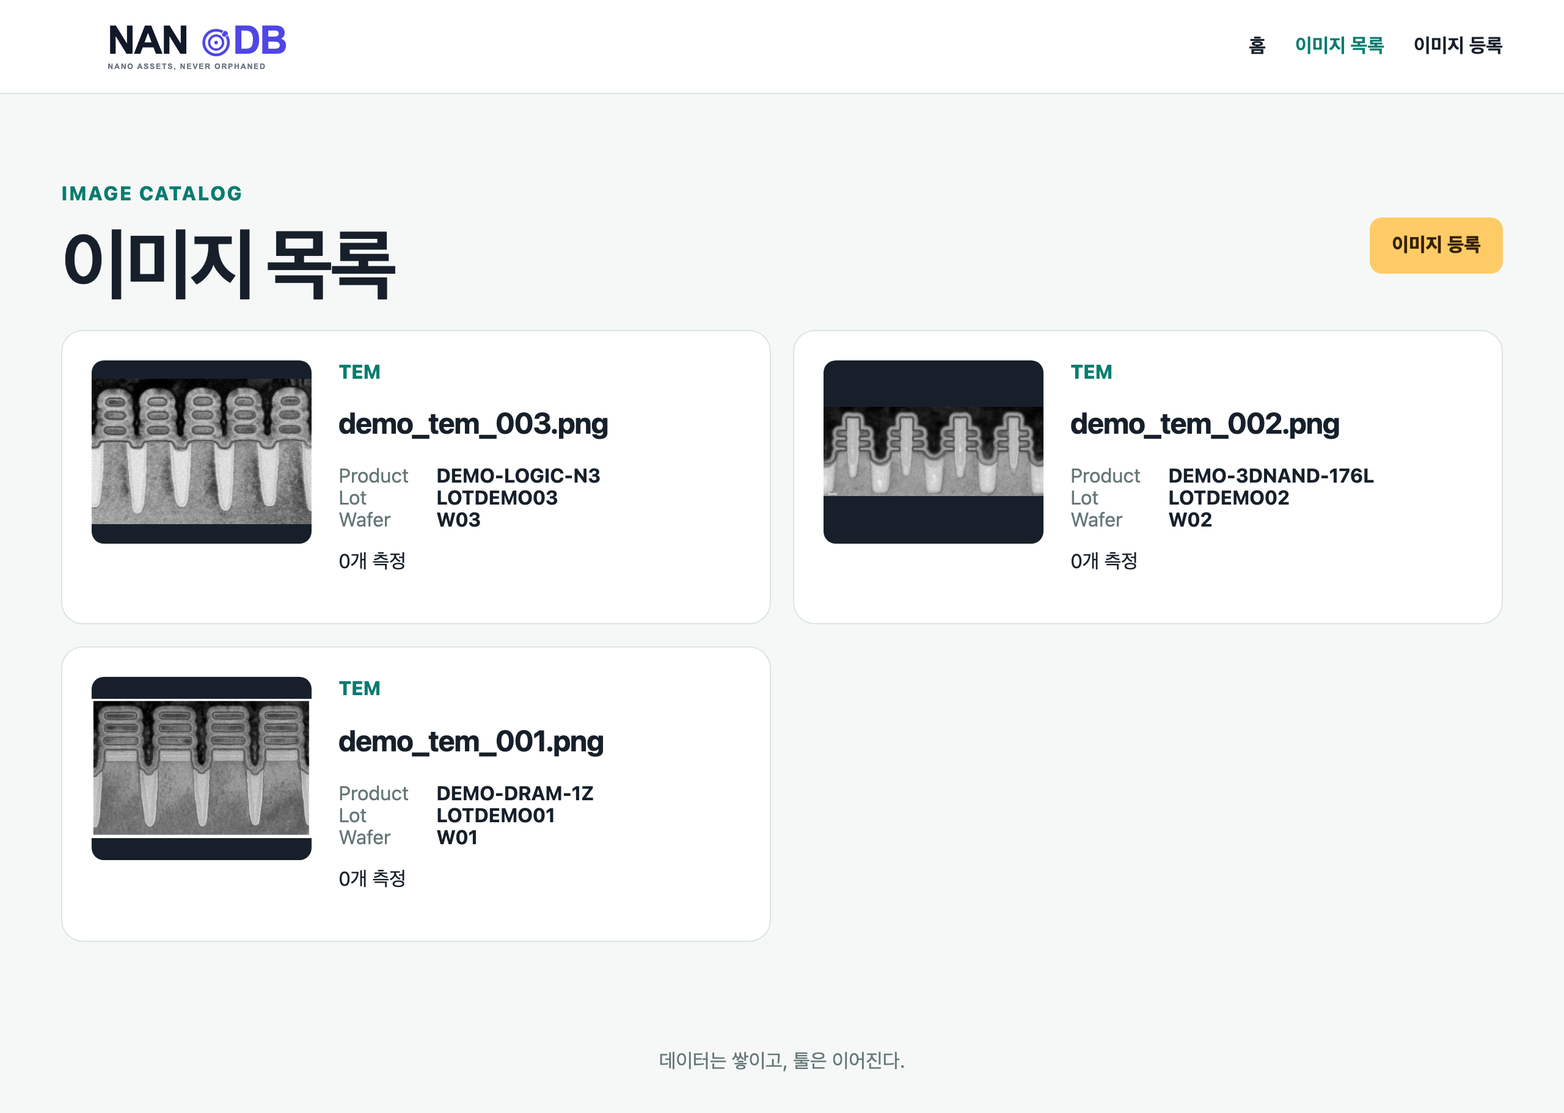
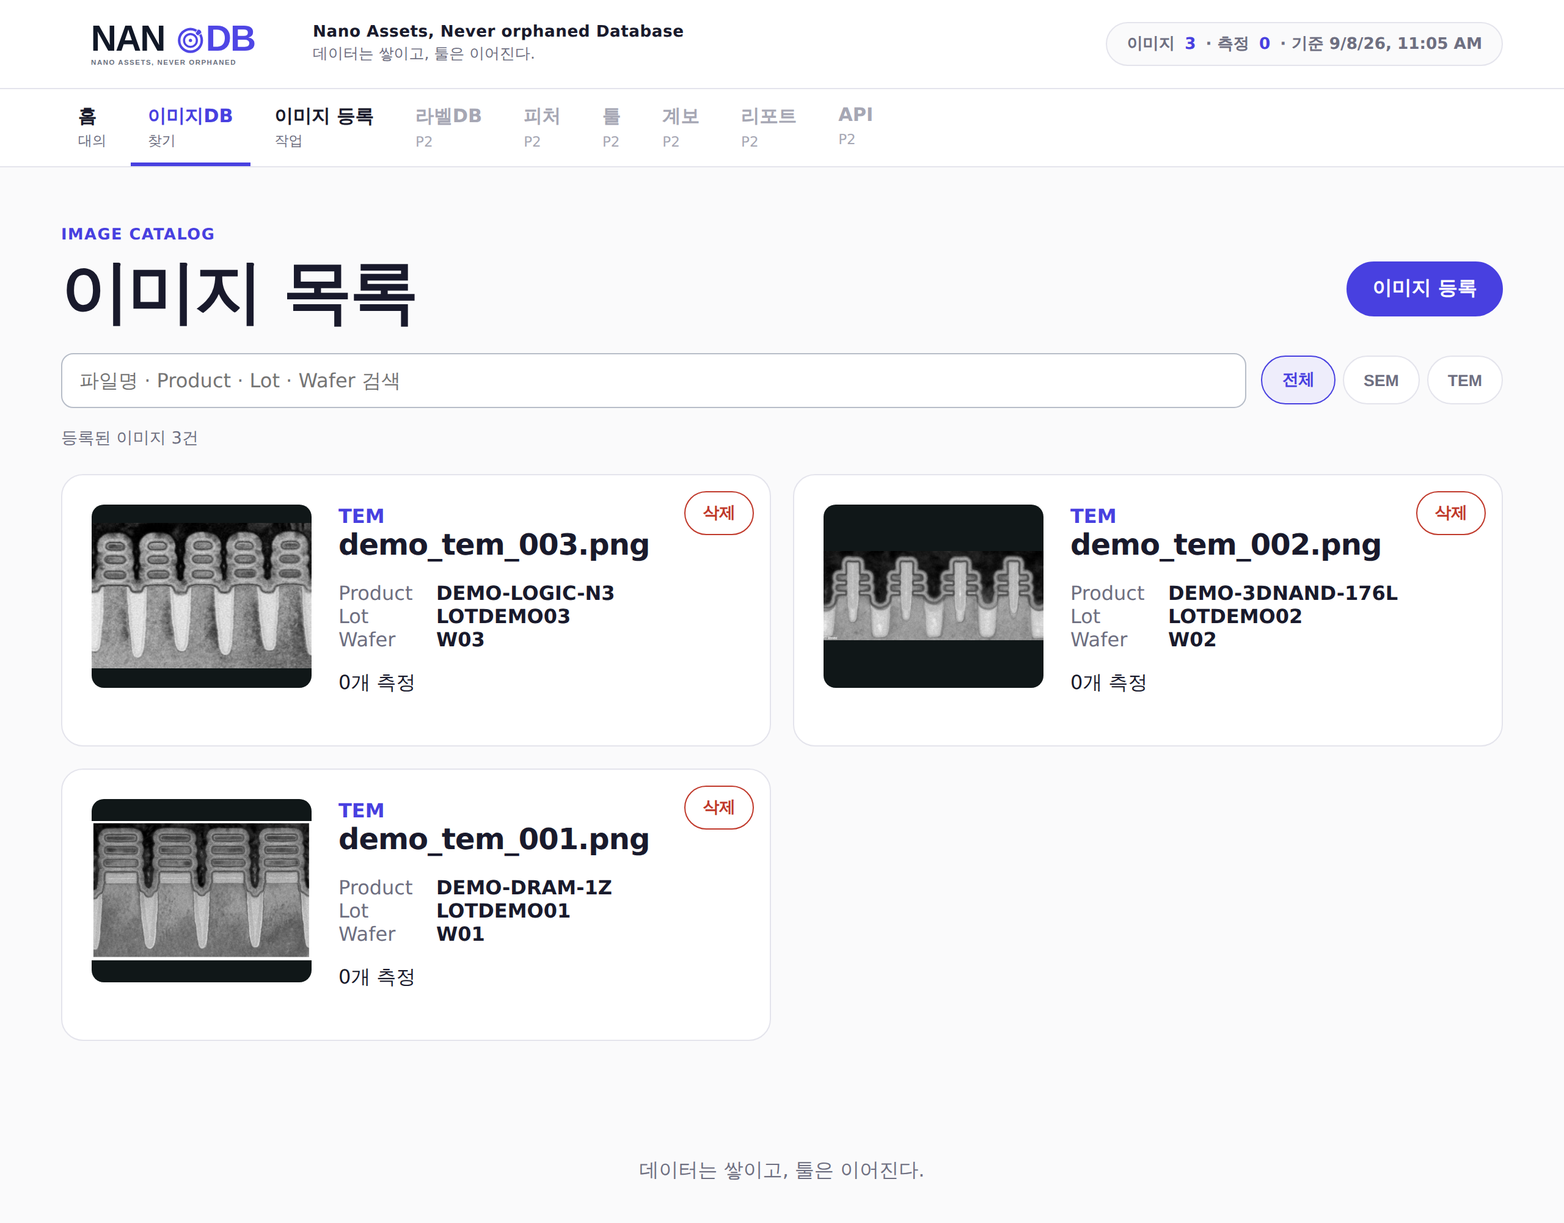
fix: make a fresh checkout actually installable, and refresh stale evidence
Ran the three paths that had never been executed — the make demo flow, the
container definitions and the evidence site build — and removed what they
exposed.

The serious one: .python-version pinned 3.12.12, which uv cannot install on
Linux (its newest managed build is 3.12.11), so `uv sync --frozen` failed on any
machine without that exact system interpreter. `make install` was the first
thing a new contributor would hit, which makes the "run with one or two
commands" requirement untrue. pyproject.toml already allows any 3.12, so the pin
now says 3.12; the Dockerfile keeps python:3.12.12-slim-bookworm, a tag that
does exist. The requirement now states that an interpreter pin has to be
installable.

HOM-034a — the home usage-flow CTA pair — was written into the requirements
during the last amendment and never built. Regenerating the screenshots is what
exposed it. It is implemented here, with a test fixing HOM-005's contract that
those two links are the only ones in the home body.

The evidence screenshots were four commits stale, showing a UI that no longer
exists to anyone judging this. They are recaptured, and because the site serves
its own copies from docs/public, the capture script now writes both so they
cannot drift apart again. The script also takes CHROMIUM_PATH so it can run
where a browser exists but Playwright's download does not. The skip link went
back to position: absolute — as fixed it was painted into full-page captures.
[…]

diff --git a/src/frontend/src/pages/HomePage.test.tsx b/src/frontend/src/pages/HomePage.test.tsx
@@ -105,6 +105,23 @@ describe("HomePage", () => {
     expect(document.querySelector('iframe[title="NANoDB 소개 영상"]')).not.toBeNull();
   });
 
+  it("puts the only in-body links at the end of the usage flow", () => {
+    stubApi({
+      image_count: 0,
+      measurement_count: 0,
+      calculated_at: "2026-09-08T04:00:00Z",
+      parameters: [],
+    });
+
+    renderWithRouter(<HomePage />);
+
+    expect(screen.getByTestId("home-register-image")).toHaveAttribute("href", "/images/new");
+    expect(screen.getByTestId("home-browse-images")).toHaveAttribute("href", "/images");
+    // HOM-005: those two are the whole set. Nothing else in the body navigates.
+    const links = [...document.querySelectorAll("main a[href^='/']")];
+    expect(links).toHaveLength(2);
+  });
+
   it("names the screen in the document title", () => {
     stubApi({
       image_count: 0,

diff --git a/src/frontend/src/pages/HomePage.tsx b/src/frontend/src/pages/HomePage.tsx
@@ -1,4 +1,5 @@
 import { useCallback, useEffect, useState } from "react";
+import { Link } from "react-router-dom";
 
 import logo from "../../../../assets/logo/nanodb_logo_horizontal.png";
 import { api } from "../api/client";
@@ -555,6 +556,16 @@ export function HomePage() {
             </li>
           ))}
         </ol>
+        {/* The only in-body links on the home page (HOM-005, HOM-034a): a
+            reader who just went through the four steps can start here. */}
+        <div className="flow-cta">
+          <Link className="button primary" to="/images/new" data-testid="home-register-image">
+            이미지 등록
+          </Link>
+          <Link className="button" to="/images" data-testid="home-browse-images">
+            이미지 둘러보기
+          </Link>
+        </div>
       </section>
 
       <p className="policy">

diff --git a/src/frontend/src/styles.css b/src/frontend/src/styles.css
@@ -223,6 +223,8 @@ h2 { letter-spacing: -0.02em; font-size: 1.5rem; margin: 0 0 6px; }
 .step-card h3 { margin: 12px 0 6px; font-size: 1rem; }
 .step-card p { margin: 0; line-height: 1.5; color: var(--ink); }
 
+.flow-cta { display: flex; flex-wrap: wrap; gap: 12px; margin-top: 20px; }
+
 .policy { text-align: center; color: var(--ink-muted); font-size: 0.85rem; }
 
 /* ---------- Summary panel (legacy, used where needed) ---------- */
@@ -271,7 +273,7 @@ footer { padding: 32px; text-align: center; color: var(--ink-muted); }
 
 /* Skip link: off-screen until focused (UIX-005). */
 .skip-link {
-  position: fixed;
+  position: absolute;
   left: 12px;
   top: -60px;
   z-index: 30;

diff --git a/aidlc-docs/aidlc-state.md b/aidlc-docs/aidlc-state.md
@@ -4,7 +4,7 @@
 
 - **Project Type**: Greenfield
 - **Start Date**: 2026-09-07T11:50:01Z
-- **Current Stage**: CONSTRUCTION - the whole 2026-09-08 UI/UX amendment is implemented except UIX-003 and UIX-009, which stay declared P2. Every gate is green including browser e2e. The 2026-09-08 UI/UX requirements amendment was approved on the same day. Prior state: CONSTRUCTION complete for both units (NANoDB Core US-01~US-07 + Evidence Site US-08); Evidence Site Code Generation approved 2026-09-08. Remaining deferred: Core PostgreSQL integration test, browser e2e, and container stack in a Docker/PostgreSQL environment; actual GitHub Pages deploy after admin Pages setup + main push. Operations phase is a placeholder.
+- **Current Stage**: CONSTRUCTION - the 2026-09-08 UI/UX amendment is implemented except UIX-003 and UIX-009, and every runnable path (make demo, quality gates, browser e2e, evidence site build and preview) has been executed end to end. Only the container stack and the actual Pages deploy remain unverified, both blocked by this environment rather than by the project. The 2026-09-08 UI/UX requirements amendment was approved on the same day. Prior state: CONSTRUCTION complete for both units (NANoDB Core US-01~US-07 + Evidence Site US-08); Evidence Site Code Generation approved 2026-09-08. Remaining deferred: Core PostgreSQL integration test, browser e2e, and container stack in a Docker/PostgreSQL environment; actual GitHub Pages deploy after admin Pages setup + main push. Operations phase is a placeholder.
 
 ## Workspace State
 
@@ -82,6 +82,9 @@
 - [x] HOM-040 (intro video caption, reduced-motion play button, offline path in README)
 - [x] P2: UIX-006 (error boundary + catch-all route), UIX-004 (document titles), UIX-005 (skip link), UIX-007 (retry), IMG-009~010 (required marks and per-field errors) — see [p2-polish-plan.md](construction/plans/p2-polish-plan.md)
 - [ ] UIX-003 (numeric coordinate entry) and UIX-009 (loading placeholders) — deliberately left; not a demo gate
+- [x] Verify the demo path, container definitions and publishing path — see [demo-and-deploy-verification-plan.md](construction/plans/demo-and-deploy-verification-plan.md)
+- [ ] Run `make up` once where Docker image layers are reachable
+- [ ] Set the repository's Pages Source to GitHub Actions and push to main (DOC-012)
 
 ### Applied requirement changes (2026-09-08)
 
@@ -198,11 +201,22 @@ See [contest-alignment-plan.md](inception/requirements/contest-alignment-plan.md
 - Two defects were found while building this and fixed here: `/images/new` lit both the catalog and the register tab as the current location (a HOM-004 violation, now written into the requirement), and the skip link was positioned against the wrong ancestor.
 - Verified: ruff clean, mypy clean, pytest 104 passed, vitest 62 passed, vite build, Playwright e2e 7 passed, plus browser screenshots of the form errors, the not-found screen and the skip link.
 
+## Demo and Publishing Verification (2026-09-08)
+
+- Plan and results: [demo-and-deploy-verification-plan.md](construction/plans/demo-and-deploy-verification-plan.md).
+- Executed successfully: `uv sync --frozen`, `make preflight`, `make migrate`, `make seed-demo`, `make reset` (source samples untouched), `make lint`, `mypy`, `make test-backend` (104 passed, no skips), `make test-frontend` (63), `make build-frontend`, `make test-e2e` (7), `docs:build` with dead-link checking, and `docs:preview` serving under `/nanodb_mvp/`.
+- Seven defects removed. The serious one: `.python-version` pinned 3.12.12, which uv cannot install on Linux (its newest build is 3.12.11), so `uv sync --frozen` failed on any machine without that exact system interpreter — `make install` was the first thing a new contributor would hit. `pyproject.toml` already allows any 3.12, so the pin is now `3.12`.
+- The second notable one: HOM-034a, written into the requirements during this same amendment, had never been implemented. Regenerating the screenshots is what exposed it.
+- The evidence screenshots were four commits stale, and the site's own copies could drift from the repository's; the capture script now writes both.
+- Blocked by the environment and reported rather than worked around: the container stack (Docker Hub's layer host is denied by egress policy — compose config and all four image tags were validated instead) and the actual Pages deploy (needs the repository Pages Source set to GitHub Actions plus a push to main).
+
 ## Next Stage Assessment
 
 The UI/UX amendment is finished apart from UIX-003 (numeric coordinate entry, the remaining accessibility gap) and UIX-009 (loading placeholders). Both are recorded as unimplemented in the requirements and in the README's known limitations, and neither is a demo gate.
 
-What is genuinely unverified is no longer UI work: the repository's own `make demo` path, the container stack, and the GitHub Pages deploy have never been exercised in a fresh environment. The evidence site's published state and the external AI development demo (US-07, EVL-006~008) also remain separate from app completeness, as the requirements require them to be.
+Two things remain, and neither can be closed from here. Someone with Docker image access should run `make up` once to prove the container stack; an administrator must set the repository's Pages Source to GitHub Actions and push to main for DOC-012. Both are recorded as `미검증` in the requirements and on the evidence site.
+
+Separately, and by design, the external AI development demo (US-07, EVL-006~008) stays independent of app completeness: the prompts, generated code, run commands and pass/fail results still have to be produced and recorded by hand.
 
 ## Execution Plan Summary
 

diff --git a/aidlc-docs/construction/plans/demo-and-deploy-verification-plan.md b/aidlc-docs/construction/plans/demo-and-deploy-verification-plan.md
@@ -1,0 +1,90 @@
+# 데모·컨테이너·게시 경로 검증 — Verification Plan
+
+> 승인: 2026-09-08 "해줘. 발견된 모든 리스크 다 제거해줘"
+> 대상: `make demo` 경로, 컨테이너 스택, VitePress/GitHub Pages 게시 경로
+> 성격: 새 기능이 아니라 **한 번도 실행된 적 없던 경로를 실제로 돌려보고 드러난 결함을 제거**하는 작업
+
+## 실행 결과
+
+| 경로 | 결과 |
+| --- | --- |
+| `uv sync --frozen` (`make install`) | **결함 발견 → 수정** |
+| `make preflight` | 통과 |
+| `make migrate` | 통과 (3개 migration 적용) |
+| `make seed-demo` | 통과 (demo 이미지 3건 적재, 원천 샘플 불변) |
+| `make reset` | 통과 (행·업로드 정리, `data/samples/` 불변) |
+| `make lint` / `mypy` / `make test-backend` | 통과 (104 passed, skip 없음) |
+| `make test-frontend` / `make build-frontend` | 통과 (63 passed) |
+| `make test-e2e` | 통과 (7 passed, Chromium) |
+| `docker compose config` | 유효 |
+| 컨테이너 이미지 태그 존재 확인 | 4개 모두 존재 |
+| `docker compose up --build` | **실행 불가 — 환경 제약** |
+| `docs:build` (dead-link 검사 on) | 통과 |
+| `docs:preview` + `/nanodb_mvp/` base | 통과 (소개·근거·자산 200) |
+| Pages workflow 계약 검토 | DOC-006~011 충족 |
+| 실제 Pages 배포 | **실행 불가 — 저장소 관리자 설정 필요** |
+
+## 제거한 결함
+
+### 1. `.python-version`이 설치 불가능한 버전을 고정 (치명)
+
+`3.12.12`로 고정돼 있었으나 uv가 리눅스용으로 받을 수 있는 최신 빌드는 `3.12.11`이다.
+시스템에 3.12.12가 없는 새 머신에서는 `uv sync --frozen`이
+`No interpreter found for Python 3.12.12`로 실패한다. **`make install`부터 막히므로
+"명령 1~2개로 실행" 요구사항이 성립하지 않았다.**
+
+`pyproject.toml`의 `requires-python`은 이미 `==3.12.*`이므로, `.python-version`을 `3.12`로
+완화해 프로젝트가 실제로 요구하는 범위와 일치시켰다. Dockerfile의 `python:3.12.12-slim-bookworm`은
+그 태그가 실재하므로 그대로 둔다.
+
+### 2. 홈 사용 흐름 CTA가 요구사항에만 있고 구현되지 않음
+
+2026-09-08 개정에서 HOM-034a(`이렇게 쓰세요` 끝의 CTA 2개)를 신설했으나 구현하지 않았다.
+스크린샷을 다시 찍는 과정에서 드러났다. `이미지 등록`·`이미지 둘러보기` 링크를 구현하고
+"홈 본문의 이동 링크는 이 둘뿐"이라는 HOM-005 계약을 테스트로 고정했다.
+
+### 3. 평가용 스크린샷이 4커밋 전 UI
+
+`screenshots/`가 working tree `19b2af6` 시점(홈 v2·TIFF·라벨링·확대 이전)이었다. 심사자가
+보는 자료가 존재하지 않는 화면을 보여주고 있었다. 현재 앱으로 재캡처했다.
+
+### 4. 사이트용 스크린샷 사본이 따로 놀 수 있는 구조
+
+사이트는 `docs/public/screenshots/`를, README는 `screenshots/`를 참조하는데 둘을 잇는 장치가
+없었다. 캡처 스크립트가 두 곳을 함께 갱신하도록 바꿔 재발을 막았다.
+
+### 5. 캡처 스크립트가 제한된 네트워크에서 실행 불가
+
+`chromium.launch()`가 Playwright 전용 다운로드만 사용해, 브라우저가 이미 설치돼 있어도
+쓸 수 없었다. `CHROMIUM_PATH` 환경변수를 선택적으로 지원하게 했다.
+
+### 6. 건너뛰기 링크가 캡처 화면에 노출
+
+`position: fixed`가 full-page 캡처에서 스크롤 위치에 그려져 평가용 스크린샷에 찍혔다.
+표준 패턴인 `position: absolute`로 되돌렸다.
+
+### 7. 문서의 낡은 사실 4건
+
+- README: `schema_version 1.0` → `1.1`(도형 포함), 스크린샷 캡처 커밋, PNG/JPEG → PNG/JPEG/TIFF
+- `docs/index.md`: "검색·측정 삭제·항목별 평균은 P0 범위 밖" → 전부 구현 완료
+- `docs/evidence.md`: `schema_version 1.0`, 테스트 수(57/23 → 104/63/7), 통합 테스트·e2e의 미검증 표기
+
+## 관찰 (결함은 아님)
+
+`make seed-demo`가 호출하는 파생본 생성은 **바이트 단위로 재현되지 않는다.** 같은 원천에서
+다시 만들면 PNG 인코딩 결과와 `derivative_sha256`이 달라진다(Pillow 버전 차이). manifest를
+파생본과 함께 다시 쓰고 `make preflight`가 둘의 정합을 검사하므로 안전성 문제는 없고,
+`source_sha256`은 그대로다. 저장소에 커밋된 파생본은 그대로 두었고 preflight로 유효함을
+재확인했다. 파생본 자체의 비트 재현성이 필요해지면 그때 인코딩 옵션을 고정하면 된다.
+
+## 환경 제약으로 실행하지 못한 것
+
+- **컨테이너 스택 기동**: Docker 이미지 레이어 호스트(`production.cloudfront.docker.com`)가
+  조직 egress 정책으로 403 차단이다. 우회하지 않았다. 대신 `docker compose config` 유효성과
+  네 이미지 태그(`python:3.12.12-slim-bookworm`, `node:22.17.1-bookworm-slim`,
+  `postgres:16.10-bookworm`, `ghcr.io/astral-sh/uv:0.9.5`)의 실재를 레지스트리 API로 확인했다.
+  **Docker가 되는 환경에서 `make up` 1회 실행이 여전히 필요하다.**
+- **GitHub Pages 실제 배포**: 저장소 Settings의 Pages Source를 `GitHub Actions`로 바꾸는
+  관리자 설정과 `main` push가 필요하다(DOC-012). workflow 자체는 DOC-006~011을 충족한다.
+
+두 항목은 이 세션에서 제거할 수 없는 리스크이며, 요구사항과 평가 자료에 `미검증`으로 남겼다.

diff --git a/aidlc-docs/audit.md b/aidlc-docs/audit.md
@@ -1719,3 +1719,24 @@ IMG-009/010: 등록 폼을 필드별 오류 상태로 재작성. 별표 + aria-r
 **Context**: CONSTRUCTION - HOM-040 and the P2 group complete except UIX-003/UIX-009
 
 ---
+
+## Demo, Container and Publishing Path Verification
+**Timestamp**: 2026-09-08T14:40:00Z
+**User Input**: "해줘. 발견된 모든 리스크 다 제거해줘"
+**AI Response**: "한 번도 실행된 적 없던 세 경로(make demo, 컨테이너 스택, VitePress/Pages)를 실제로 돌렸다. 계획과 상세 결과: construction/plans/demo-and-deploy-verification-plan.md.
+
+실행 통과: uv sync --frozen, make preflight, make migrate, make seed-demo(원천 샘플 불변 확인), make reset, make lint, mypy, make test-backend(104 passed, 로컬 PostgreSQL 16으로 skip 없음), make test-frontend(63), make build-frontend, make test-e2e(7), docs:build(dead-link 검사 on), docs:preview의 /nanodb_mvp/ base 라우팅과 자산 로딩.
+
+제거한 결함 7건.
+(1) 치명: .python-version이 3.12.12로 고정돼 있는데 uv가 받을 수 있는 리눅스 최신 빌드는 3.12.11이라, 시스템에 3.12.12가 없는 새 머신에서 uv sync --frozen이 'No interpreter found'로 실패했다. make install부터 막히므로 '명령 1~2개로 실행' 요구사항이 성립하지 않았다. pyproject의 requires-python이 이미 ==3.12.*이므로 .python-version을 3.12로 완화하고, 비기능 요구사항에 '인터프리터 고정은 실제 설치 가능한 범위여야 한다'를 명문화했다. Dockerfile의 python:3.12.12-slim-bookworm은 실재하는 태그라 유지.
+(2) 요구사항만 있고 구현이 없던 HOM-034a(홈 사용 흐름 끝의 CTA 2개). 스크린샷 재캡처 과정에서 드러났다. 직전 개정에서 내가 요구사항을 쓰고 구현하지 않은 항목이다. 구현하고 '홈 본문 이동 링크는 이 둘뿐'을 테스트로 고정했다.
+(3) 평가용 스크린샷 5장이 working tree 19b2af6 시점(홈 v2·TIFF·라벨링·확대 이전) — 심사자가 존재하지 않는 화면을 보고 있었다. 현재 앱으로 재캡처.
+(4) 사이트는 docs/public/screenshots/를, README는 screenshots/를 참조하는데 동기화 장치가 없어 구조적으로 어긋날 수 있었다. 캡처 스크립트가 두 곳을 함께 쓰도록 바꿔 재발 방지.
+(5) 캡처 스크립트가 Playwright 전용 브라우저 다운로드에만 의존해 제한된 네트워크에서 실행 불가였다. CHROMIUM_PATH 선택적 지원 추가.
+(6) 건너뛰기 링크의 position: fixed가 full-page 캡처에서 스크롤 위치에 그려져 평가 스크린샷에 노출됐다. 표준 패턴인 absolute로 환원.
+(7) 문서 낡은 사실 — README(schema_version 1.0→1.1, 캡처 커밋, PNG/JPEG→TIFF 포함), docs/index.md('검색·삭제·평균은 P0 범위 밖' → 구현 완료), docs/evidence.md(schema_version, 테스트 수 57/23 → 104/63/7, 통합 테스트·e2e 미검증 표기 해제).
+
+환경 제약으로 실행 불가 2건(우회하지 않고 보고): 컨테이너 스택 기동은 Docker 이미지 레이어 호스트 production.cloudfront.docker.com이 조직 egress 정책 403으로 차단이다. 대신 docker compose config 유효성과 네 이미지 태그의 실재를 레지스트리 API로 확인했다. GitHub Pages 실제 배포는 저장소 Settings의 Pages Source를 GitHub Actions로 바꾸는 관리자 설정과 main push가 필요하다(DOC-012). workflow 자체는 DOC-006~011 충족을 확인했다. 두 항목은 요구사항과 평가 자료에 미검증으로 남겼다."
+**Context**: CONSTRUCTION - runnable paths verified end to end; two items blocked by environment, reported not worked around
+
+---

diff --git a/README.md b/README.md
@@ -40,14 +40,18 @@ NANoDB는 반도체 SEM/TEM 이미지와 측정 근거를 축적하고, 이를 A
 
 아래 화면은 로컬 PostgreSQL 16과 native uvicorn으로 앱을 실행한 뒤 승인된 demo 데이터로
 Playwright가 자동 캡처한 실제 동작 화면입니다(캡처 시각 2026-09-08, working tree
-`19b2af6`, 캡처 스크립트 [`scripts/capture_screenshots.mjs`](scripts/capture_screenshots.mjs)).
+`7a387cb`, 캡처 스크립트 [`scripts/capture_screenshots.mjs`](scripts/capture_screenshots.mjs)).
 공개 배포된 서비스가 아니라 로컬 실행 결과이며, 비밀정보나 비공개 자료는 포함하지 않습니다.
+캡처 환경은 외부 네트워크가 차단돼 있어 홈 최상단의 소개 영상 자리가 비어 있습니다.
+영상은 보조 자료이며 앱 기능 근거가 아닙니다(HOM-040).
+캡처 스크립트는 `screenshots/`와 사이트용 사본 `docs/public/screenshots/`를 함께 갱신하므로
+두 곳이 어긋나지 않습니다.
 
 | 화면 | 대응 기능 |
 | --- | --- |
-| ![홈: 실제 이미지·측정 집계와 시작 CTA](screenshots/01-home.png) | 홈에서 실제 이미지 수·측정 수 집계와 등록·목록 시작 동선 (MVP 6) |
+| ![홈: 실제 이미지·측정 집계와 사용 흐름](screenshots/01-home.png) | 홈에서 실제 이미지 수·측정 수·파라미터 집계와 사용 흐름 끝의 등록·목록 CTA (MVP 6) |
 | ![이미지 목록: 최신순 카드와 측정 수](screenshots/02-catalog.png) | 등록된 이미지를 목록에서 최신순으로 찾아 다시 열기 (MVP 2) |
-| ![이미지 등록: 미리보기와 제조 메타데이터 폼](screenshots/03-register.png) | PNG/JPEG를 제조 메타데이터·보정값과 함께 등록 (MVP 1, 4) |
+| ![이미지 등록: 미리보기와 제조 메타데이터 폼](screenshots/03-register.png) | PNG/JPEG/TIFF를 제조 메타데이터·보정값과 함께 등록 (MVP 1, 4) |
 | ![측정 뷰어: 두 점 선택 draft와 실시간 preview](screenshots/04-measurement-draft.png) | 이미지 위 두 점 선택으로 CD/Depth/Thickness 측정과 preview (MVP 3, 4) |
 | ![저장 후: overlay 복원·저장 항목·context export 활성](screenshots/05-measurement-saved.png) | 저장 좌표·값의 overlay 복원과 측정이 있을 때 활성화되는 컨텍스트 ZIP 내보내기 (MVP 5, 7) |
 
@@ -129,7 +133,7 @@ skip됩니다.
 이미지 상세에서 `GET /api/images/{id}/context-export`로 고정 네 파일 ZIP을 내려받습니다.
 
 - `context.md` — 좌표계·계산 규칙·데이터 주의사항
-- `data.json` — 선택 이미지와 저장된 모든 측정 (`schema_version` `1.0`)
+- `data.json` — 선택 이미지와 저장된 모든 측정, 저장된 도형과 도형 라벨 (`schema_version` `1.1`)
 - `task.md` — 수행할 개발 과제
 - `checks.json` — 검증용 정답(ground truth)
 
